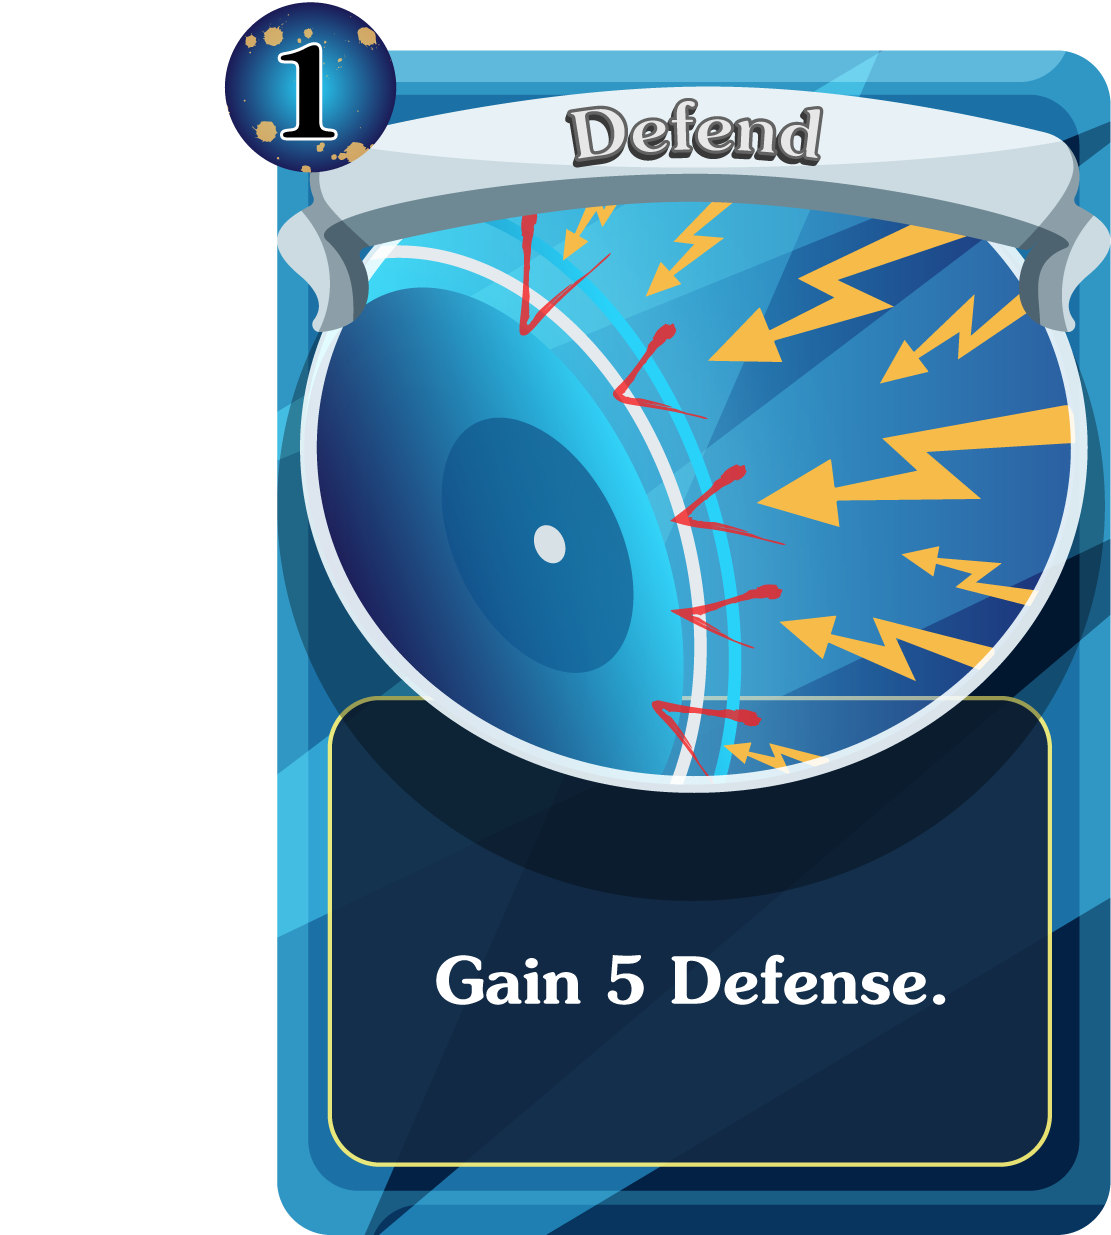
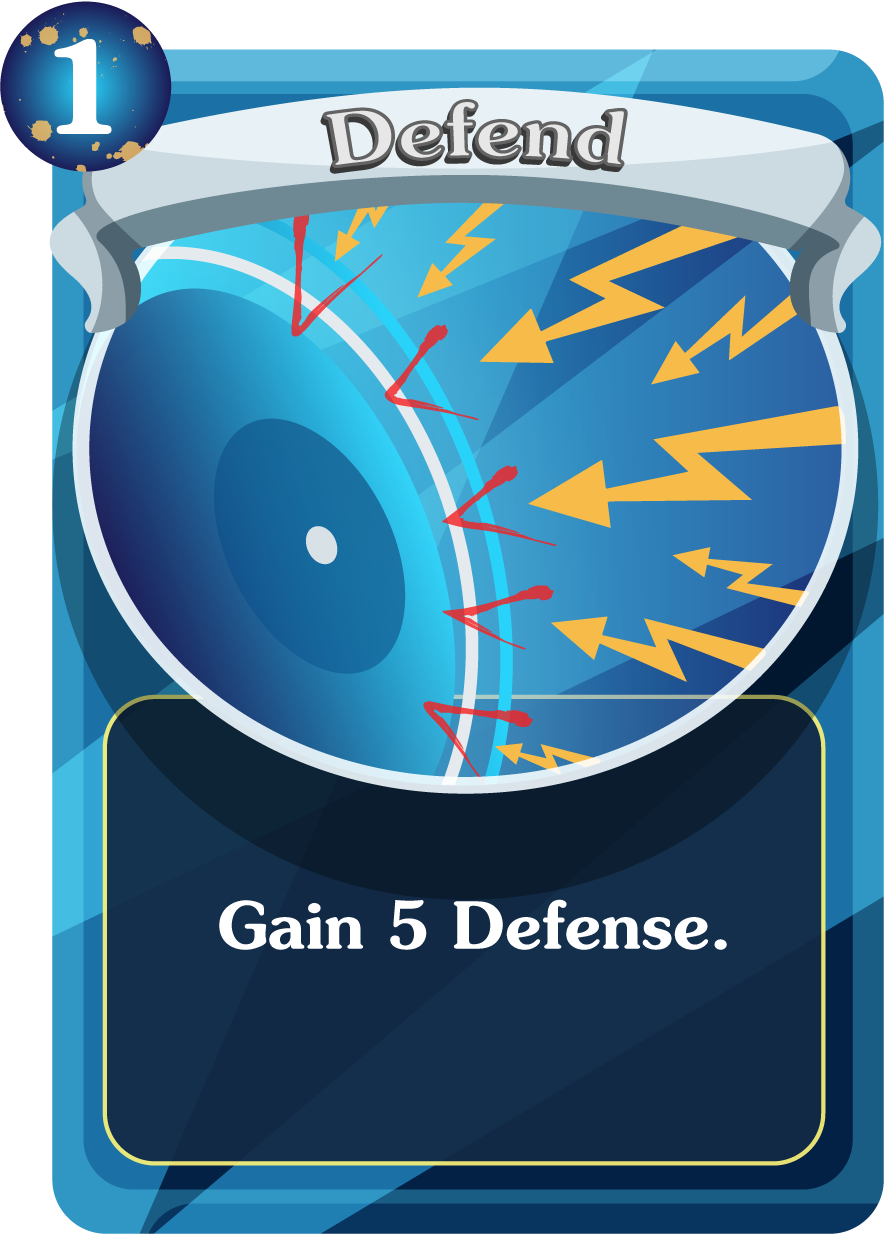
New cards spacing

diff --git a/src/styles/index.css b/src/styles/index.css
@@ -139,16 +139,15 @@ ul{
     /* background-image: url("./cards/card.jpg"); */
     background-size: contain;
     background-repeat: no-repeat;
-    width: 100%;
+    width: 212px;
     height: 296px;
     margin: 0 15px;
-    max-width: 185px;
+    max-width: 212px;
     transition: all .2s ease-in-out; 
 }
 
 .Card:hover { 
-transform: scale(1.1); 
-box-shadow: inset 0 0 100px 100px rgba(255, 255, 255, 0.1);
+transform: scale(1.1);
 }
 
 #end-turn{
